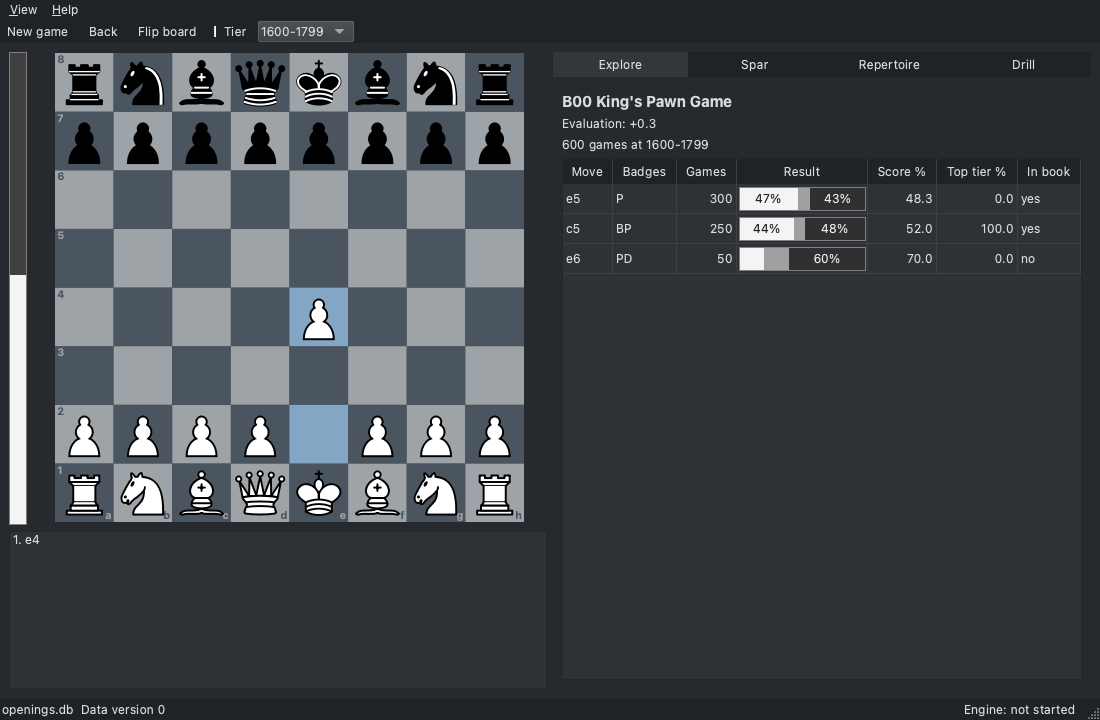
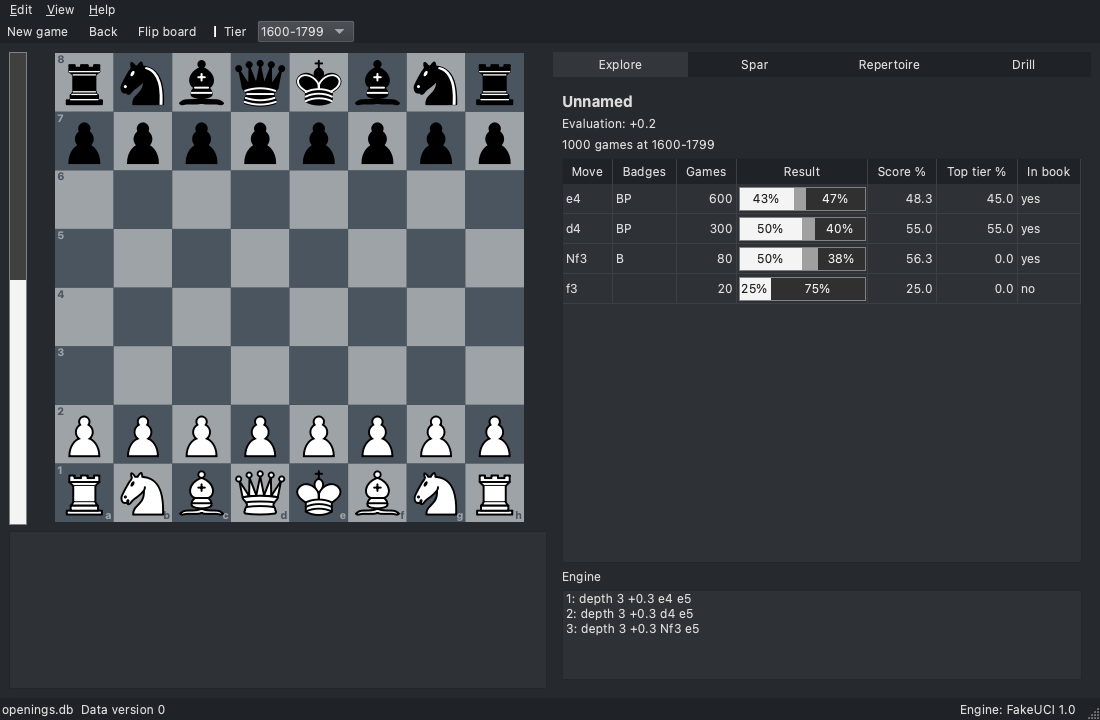
docs(app): Document the engine worker, its lines and the engine settings
docs/reference/app.md describes the engine worker: the cache first and a search on a miss, how the
engine is found and restarted, one search at a time and its cancellation by moving on, profiles.db
written only by a stored search, and scores turned to white's side. It adds the engine lines to
Explore, the evaluation bar's two sources, the engine settings and their dialog, and the engine
tests. The README's Explore screenshots now show engine lines, and the map's status names the
engine worker.

diff --git a/docs/reference/app.md b/docs/reference/app.md
@@ -1,13 +1,14 @@
 # The app
 
 `chess-coach` is the Qt 6 Widgets application (`CLAUDE.md`, **app/ is presentation**). This file
-covers the main window, the board, the database worker, the Explore screen, the settings, the
-themes, the About dialog, and the UI harness. The engine worker comes with the engine, later in
-Phase 3 (`PLAN.md` §7).
+covers the main window, the board, the database worker, the engine worker, the Explore screen,
+the settings, the themes, the About dialog, and the UI harness.
 
 Every widget lives on the GUI thread. The opening database (`--db`) is opened read-only and read
-only by the database worker on its own thread (**Database worker**). The one file the app writes
-is `<data-dir>/settings.ini`, and only when a setting changes (**Settings**).
+only by the database worker on its own thread (**Database worker**); the engine and the engine
+cache belong to the engine worker on another (**Engine worker**). The app writes two files in
+`--data-dir`: `settings.ini`, only when a setting changes (**Settings**), and `profiles.db`, only
+when the engine worker stores a search (**Engine worker**).
 
 ## Code
 
@@ -16,11 +17,13 @@ is `<data-dir>/settings.ini`, and only when a setting changes (**Settings**).
 | `app/src/main.cpp` | The entry point, wiring only: `QApplication`, `--data-dir` and `--db`, the window |
 | `main_window.{hpp,cpp}` | `MainWindow`: the frame, the line played, the worker's thread (**Shell**) |
 | `db_worker.{hpp,cpp}` | `DbWorker`, the database worker on its own thread (**Database worker**) |
+| `engine_worker.{hpp,cpp}` | `EngineWorker`, the engine and its cache on their own thread (**Engine worker**) |
 | `explore_data.hpp` | `ExploreData` and `ExploreMove`, the worker's answer for a position |
 | `explore_model.{hpp,cpp}` | `ExploreModel`, the table model of the Explore screen (**Explore**) |
 | `explore_screen.{hpp,cpp}` | `ExploreScreen`, the Explore screen, and its result bar delegate |
 | `eval_bar.{hpp,cpp}` | `EvalBar`, the evaluation bar beside the board |
-| `settings.{hpp,cpp}` | `Settings`, the theme and the last tier in `settings.ini` (**Settings**) |
+| `settings.{hpp,cpp}` | `Settings`: the theme, the last tier and the engine in `settings.ini` (**Settings**) |
+| `settings_dialog.{hpp,cpp}` | `SettingsDialog`, Edit > Settings for the engine (**Settings**) |
 | `about_dialog.{hpp,cpp}` | `AboutDialog`, the versions and the attributions (**About**) |
 | `board_view.{hpp,cpp}` | `BoardView`, the board: position, input, animation (**Board**) |
 | `board_scene.{hpp,cpp}` | `BoardScene`, the board's items and their layout, and the hit test |
@@ -42,8 +45,9 @@ which the executable and the UI tests link. The piece set and the two stylesheet
   (`flip_action`), and the tier selector (`tier_selector`), a `QComboBox` of the seven
   `tier_label` strings with the tier index as each item's data, at the last tier the settings
   hold, else tier 2 (`MainWindow::default_tier`).
-- **The menus**: *View > Theme* with *Light* and *Dark* (`theme_light`, `theme_dark`), and
-  *Help* with *About chess-coach* (`about_action`) and *About Qt* (`about_qt_action`).
+- **The menus**: *Edit > Settings…* (`settings_action`, **Settings**), *View > Theme* with
+  *Light* and *Dark* (`theme_light`, `theme_dark`), and *Help* with *About chess-coach*
+  (`about_action`) and *About Qt* (`about_qt_action`).
 - **The evaluation bar** (`eval_bar`) and **the board** (`board`, a `BoardView`) on the left, and
   below them **the move list** (`move_list`, a `QListWidget`) with one row per move pair,
   `1. e4 e5`.
@@ -52,14 +56,16 @@ which the executable and the UI tests link. The piece set and the two stylesheet
   placeholder label for now.
 - **The status bar**: `database_status`, "No database" or the `--db` file's name (its tooltip the
   full path); `data_version_status`, "Data version <v>" once the database is open; and
-  `engine_status`, "Engine: not started".
+  `engine_status`, "Engine: <state>" as the engine worker reports it ("not started" until then,
+  "not found", the engine's name when idle, "searching").
 
 **The line.** The window keeps the moves played from the start position (UCI and SAN) and the key
 of every position along them. A move on the board (`move_played`) appends to it; clicking a row
 of the move list goes to the position after that row's last move, *Back* drops the last move, and
 *New game* drops them all: the window replays the line on a fresh `Position` into the board with
 `set_position`, without animation. After every change, and when the tier changes, the window asks
-the worker for the position at the end of the line at the selected tier.
+the database worker for the position at the end of the line at the selected tier; after every
+change of position (not of tier), and once at start, it asks the engine worker to evaluate it.
 
 **The database.** With `--db`, the window asks the worker to open it at start; the status bar
 names it and, once open, shows its data version. When it does not open, a non-blocking message
@@ -95,6 +101,45 @@ the move was not played there), and whether its child has a `nodes` row at the t
 `register_explore_types()` registers both types and the line of keys for the queued connections.
 The window drops an answer for a key or a tier it has left.
 
+## Engine worker
+
+`EngineWorker` is a `QObject` on its own `QThread`, set up like the database worker: started by
+the window, deleted on its thread when the thread finishes. It owns one core `Engine` and its own
+`ProfileStore` connection to `<data-dir>/profiles.db` for the engine cache (`docs/database.md`
+§12.2); the GUI thread touches neither. Its slots, reached by queued connection:
+
+| Slot | What it does |
+|---|---|
+| `configure(EngineSettings)` | Keeps the settings for the next search and drops the running engine, which quits, so the next search starts one with them |
+| `evaluate(key, fen, request_id)` | Answers `lines_ready(key, request_id, lines, cached)`, from the cache or a search, unless the request is stale; reports `engine_state(text)` and `engine_failed(message)` |
+
+**An evaluation.** First the cache: `cache_lookup(key, lines, 12)`, a hit needing every line at
+depth 12 or more, as the CLI's `eval`; a hit is answered with `cached` set and the engine is not
+touched. On a miss the worker finds the engine: the settings' binary, else
+`CHESS_COACH_STOCKFISH`, else `stockfish` on the `PATH`, else `stockfish` beside the app (the
+bundle's, from Phase 6), and reports "not found" when there is none. The engine starts at the
+first search (Threads and Hash from the settings) and again after it dies or times out. The worker
+reports "searching", runs `search` for the settings' line count and seconds, reports the engine's
+name, and stores a full result with `cache_store`, answering with what the cache then holds.
+`profiles.db` is opened only when it exists, for a lookup, or when a search is to be stored, so
+it is created by the first stored search and a run that searches nothing writes nothing.
+
+**One search at a time, cancelled by moving on.** The worker's slots run one at a time on its
+thread, and `Engine::search` blocks there, so two searches are never in flight. Each request the
+window sends carries the next request id; before sending it, the window calls
+`cancel_before(request_id)` directly from the GUI thread, which records the id and calls
+`Engine::stop()` (the one engine call another thread may make; the worker's mutex only keeps the
+engine from being replaced meanwhile). The search in progress then returns at once, marked
+stopped, and is neither stored nor answered; a request older than the recorded id is skipped
+unsearched; and the window drops an answer whose id or key is not its current one. The window
+never blocks: a 30 s search is stopped by the next move. Closing the window cancels the same way
+before it quits and joins the thread, and the engine quits with the worker.
+
+**Scores.** `EngineLine` carries the multipv, the depth, the score and the principal variation in
+SAN (at most ten moves, then "…"). UCI and the engine cache give scores from the side to move;
+the worker turns them to white's side, negating them when black is to move, so that they read
+like the stored evaluations of `openings.db`. Explore shows them that way.
+
 ## Explore
 
 `ExploreScreen` shows the worker's answer:
@@ -111,20 +156,30 @@ The window drops an answer for a key or a tier it has left.
 - **Off book**: when the position has no node at the tier, a label (`explore_message`) replaces
   the table: "Off book at <tier>: 0 games". The same label holds the empty state without a
   database.
+- **The engine's lines**, below: a label (`engine_label`), "Engine", "Engine (cached)", or
+  "Engine: searching", "Engine: not found" or the failure, and a short list (`engine_lines`) with
+  one line per multipv, "1: depth 18 -0.3 Nc6 Bb5 Nf6", the score from white's side written as
+  the stored evaluation is.
 
 The model updates by removing and inserting rows rather than resetting, so the view keeps its
 column settings (Result stretches; the others fit their contents).
 
 `EvalBar` is the vertical bar beside the board: white's share of it is
-`1 / (1 + e^(-0.00368208 * cp))` for a stored centipawn score, the curve lichess draws its bar
-with, and all or nothing for a mate; it is hidden when the position has no stored evaluation, and
-follows the board's flip.
+`1 / (1 + e^(-0.00368208 * cp))` for a centipawn score, the curve lichess draws its bar with, and
+all or nothing for a mate. It shows the position's stored evaluation when it has one, else the
+engine's first line, and is hidden when there is neither; it follows the board's flip.
 
 ## Settings
 
 `Settings` reads and writes `<data-dir>/settings.ini` through `QSettings` in INI format, never the
-registry or the platform's own settings store: `theme` (`light` or `dark`) and `tier` (the last
-tier selected). Reading does not create anything; the first write, when the theme or the tier
+registry or the platform's own settings store: `theme` (`light` or `dark`), `tier` (the last
+tier selected), and the engine's `engine/binary` (empty for the default binary),
+`engine/threads` (half the cores, at least one), `engine/hash_mb` (64), `engine/seconds` (2.0,
+0.1 to 60) and `engine/lines` (3, 1 to 10), each at its default when unset or out of range.
+*Edit > Settings…* (`SettingsDialog`, `settings_dialog`) edits the engine's: the binary with a
+Browse button, the threads, the hash, the seconds and the lines; accepting saves them, sends them
+to the engine worker, which restarts its engine with them at the next search, and evaluates the
+position again. Reading does not create anything; the first write, when the theme or the tier
 changes, creates the data directory and the file. This is the first thing the app writes: a run
 that changes no setting leaves the data directory as it found it, or absent.
 
@@ -242,6 +297,17 @@ name, stopping the run when it is missing), `click(view, "e2")`, `square_point(v
   database that does not open; `settings.ini` appearing only after a theme change, alone in the
   data directory; both themes; the About dialog. Screenshots: `explore-start-tier3`,
   `explore-sicilian-light`, `explore-off-book`, `explore-light`, `explore-dark`, `about-dialog`.
+- `ui_engine_test`, with core's fake engine (`fake-uci`) set as the binary through
+  `app/tests/fake-stockfish.sh`, its script, delay and log chosen by environment variables: the
+  lines after a request, white to move and black to move, and the evaluation bar following the
+  first line where nothing is stored; a cache seeded through `ProfileStore` served without
+  starting the engine; a 30 s search stopped by a move while a timer keeps firing, and the window
+  closing at once; a missing binary; the Settings dialog saving and applying its values, and a new
+  window starting with them. Screenshots: `explore-engine`, `explore-engine-dark`,
+  `settings-dialog`.
+
+The other UI tests set `CHESS_COACH_STOCKFISH` to a path that does not exist, so no real engine
+runs in them and they write nothing.
 
 `tools/ui_tests.sh [<regex>]` builds the `dev` preset, runs the UI tests (`ctest -L ui`, filtered
 by name with the regex), and lists the screenshots of the run; the full gate runs the same tests

diff --git a/README.md b/README.md
@@ -14,14 +14,15 @@ vcpkg, SQLite. `chess-coach` is a working name.
 Pre-alpha and private. The four modules (`core`, `pipeline`, `cli`, `app`) configure, build and
 test on macOS and Linux; the ingestion pipeline builds the tiered database from the Lichess
 dumps, the CLI queries it, and the app's Explore screen shows it at any tier on a playable
-board. The next milestones are the engine in the app and the other three screens.
+board, with Stockfish's lines beside it. The next milestones are the other three screens.
 
-Explore after 1. e4 at the 1600–1799 tier, in the light and the dark theme, as the UI harness
-(`tools/ui_tests.sh`) renders it on the tests' small fixture database:
+Explore at the start position and the 1600–1799 tier, in the light and the dark theme, as the UI
+harness (`tools/ui_tests.sh`) renders it on the tests' small fixture database and a stand-in
+engine: the moves with their badges, results and scores, and the engine's lines below them:
 
-![Explore after 1. e4, light theme: the board, the move list, and the table of black's replies with badges and result bars](docs/images/explore-light.png)
+![Explore in the light theme: the board, the table of moves with badges and result bars, and three engine lines](docs/images/explore-light.png)
 
-![The same position in the dark theme](docs/images/explore-dark.png)
+![The same in the dark theme](docs/images/explore-dark.png)
 
 ## How it will work
 

diff --git a/CLAUDE.md b/CLAUDE.md
@@ -38,11 +38,12 @@ and the spar session (`docs/reference/core.md`). **Phase 3 (app shell and Explor
 progress:** the board (SVG pieces, two-click and drag input, hints, highlights, animation, flip,
 promotion); the main window with the tier selector and the move list; the Explore screen on
 `--db` through a database worker on its own thread (moves with badges, result bars, scores and
-top-tier shares, the evaluation bar, going back along the line); light and dark themes; settings
-in `<data-dir>/settings.ini`; the About dialog; and the UI harness with screenshots
-(`tools/ui_tests.sh`, `docs/reference/app.md`). The engine worker follows. `PLAN.md` §7 lists the
-seven phases with their sizes, §6 the data, §9 the process, §11 the decisions, §12 the resolved
-questions and §14 the deferred path.
+top-tier shares, the evaluation bar, going back along the line) and the engine worker on another
+(Stockfish's lines through the engine cache, a search stopped when the position changes); light
+and dark themes; settings in `<data-dir>/settings.ini`, with the engine's in Edit > Settings; the
+About dialog; and the UI harness with screenshots (`tools/ui_tests.sh`, `docs/reference/app.md`).
+`PLAN.md` §7 lists the seven phases with their sizes, §6 the data, §9 the process, §11 the
+decisions, §12 the resolved questions and §14 the deferred path.
 
 ## Stack (pinned)
 
